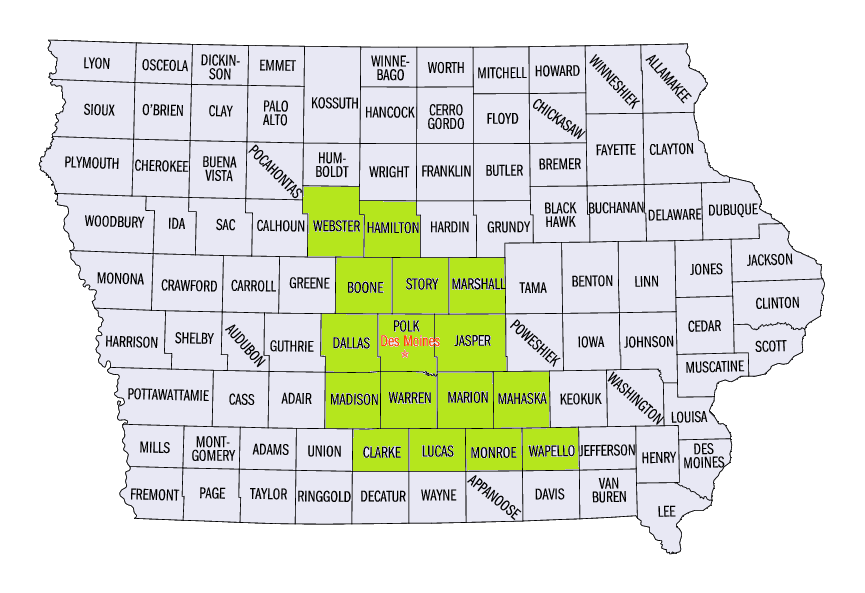
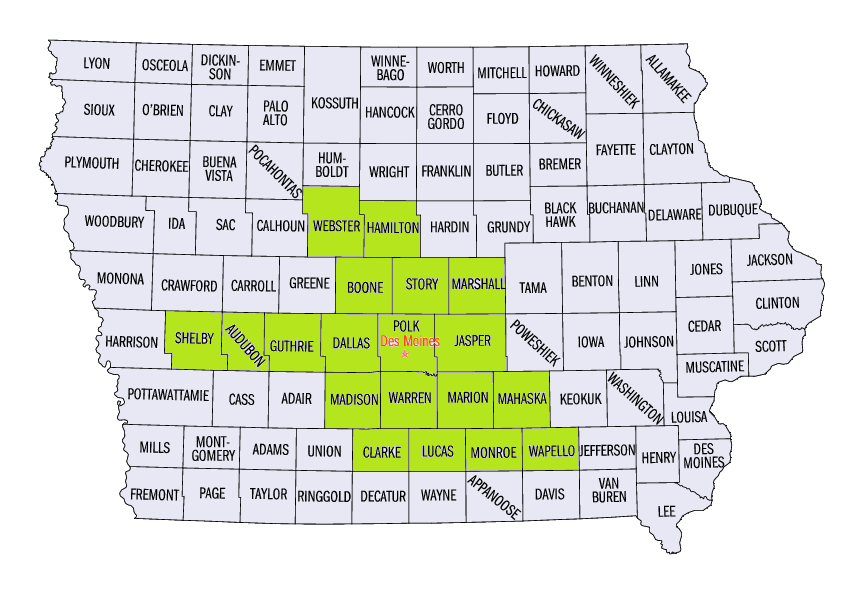
update

Changed region(s): [[0.1873, 0.516, 0.3746, 0.6374]]

diff --git a/imagemap.html b/imagemap.html
@@ -182,6 +182,80 @@ COORDS="550,371,550,385,551,397,551,399,551,408,551,410,551,413,551,416,551,418,
 HREF="/2013/08/mahaska-county.html" ALT="Mahaska County">
 </AREA>
 
+<AREA SHAPE="polygon"
+COORDS="223,312,222,321,222,326,222,327,222,332,222,333,222,340,222,347,222,354,225,354,
+226,354,228,354,228,370,223,370,216,370,214,370,209,370,208,370,207,370,206,370,
+200,369,197,369,195,369,192,369,191,369,187,369,186,369,183,369,179,369,177,369,
+176,369,174,369,172,369,172,360,172,356,172,355,172,353,170,353,169,353,167,353,
+166,353,165,353,165,352,165,351,165,348,165,347,165,343,165,342,165,341,165,339,
+165,335,165,332,165,327,165,326,166,324,166,323,166,316,166,310,167,310,174,310,
+178,311,180,311,181,311,182,311,185,311,187,311,189,311,192,311,194,311,197,311,
+198,311,208,311,215,311,223,312"
+HREF="http://bergman99.blogspot.com/2014/03/shelby-county.html" ALT="Shelby County">
+</AREA>
+
+<AREA SHAPE="polygon"
+COORDS="265,312,267,313,270,313,272,313,273,313,274,313,279,313,283,313,284,313,286,313,
+289,313,291,313,293,313,296,313,297,313,298,313,303,313,305,313,307,313,311,313,
+312,313,313,313,315,313,318,313,319,313,320,313,322,313,321,323,321,325,321,327,
+321,330,321,342,321,343,321,344,321,345,321,346,321,348,321,349,321,350,321,351,
+321,352,321,353,321,354,321,355,321,356,326,356,326,360,326,364,326,369,326,371,
+326,372,324,372,322,372,321,372,320,372,318,372,315,372,314,372,312,372,305,372,
+300,371,298,371,296,371,292,371,291,371,284,371,279,371,278,371,277,371,276,371,
+275,371,272,371,269,371,270,361,270,355,269,355,264,355,264,350,264,349,264,348,
+265,344,265,343,265,341,265,339,265,338,265,336,265,334,265,330,265,329,265,326,
+265,317,265,312"
+HREF="http://bergman99.blogspot.com/2014/03/guthrie-county.html" ALT="Guthrie County">
+</AREA>
+
+<AREA SHAPE="polygon"
+COORDS="223,312,237,312,242,312,245,312,246,312,249,312,251,312,253,312,256,312,258,312,
+260,312,261,312,262,312,263,312,265,312,265,317,265,326,265,329,265,330,265,334,
+265,336,265,338,265,339,265,341,265,343,265,344,264,348,264,349,264,350,264,355,
+269,355,270,355,270,361,269,371,255,371,253,371,251,371,249,371,246,371,245,371,
+242,371,230,370,229,370,228,370,228,354,226,354,225,354,222,354,222,347,222,340,
+222,333,222,332,222,327,222,326,222,321,223,312"
+HREF="http://bergman99.blogspot.com/2014/03/audubon-county.html" ALT="Audubon County">
+</AREA>
+
+<AREA SHAPE="polygon"
+COORDS="450,314,452,314,454,314,464,314,466,314,467,314,468,314,471,314,472,314,473,314,
+478,314,484,314,485,314,492,314,503,314,506,314,506,315,506,318,506,320,506,321,
+506,322,506,323,506,325,506,328,506,331,506,334,506,335,506,336,506,337,506,339,
+506,341,506,342,506,343,507,344,507,345,507,346,507,349,507,350,507,353,507,354,
+507,355,507,356,508,356,508,358,508,361,508,362,508,368,508,371,506,371,505,371,
+504,371,503,371,501,371,494,371,488,371,487,371,486,371,485,371,482,371,480,372,
+479,372,471,372,470,372,468,372,467,372,466,372,464,372,463,372,461,372,460,372,
+456,372,455,372,452,372,447,372,445,372,444,372,440,372,438,372,438,371,438,369,
+438,367,438,366,438,363,438,359,438,356,437,356,436,356,435,356,435,353,435,347,
+435,346,435,345,435,344,435,343,435,342,435,341,435,340,435,339,435,338,435,337,
+435,335,435,333,435,328,435,325,435,320,435,319,435,314,445,314,447,314,448,314,
+450,314"
+HREF="http://bergman99.blogspot.com/2013/11/jasper-county.html" ALT="Jasper County">
+</AREA>
+
+<AREA SHAPE="polygon"
+COORDS="477,257,478,257,489,257,491,257,493,257,496,257,503,257,505,257,506,257,506,264,
+506,270,506,271,506,276,506,285,506,286,506,289,506,290,506,291,506,292,506,294,
+506,298,506,299,506,304,506,309,506,311,506,314,503,314,492,314,485,314,484,314,
+478,314,473,314,472,314,471,314,468,314,467,314,466,314,464,314,454,314,452,314,
+450,314,449,313,450,308,450,307,450,305,450,304,450,303,450,299,449,297,449,290,
+449,286,449,271,449,269,449,268,449,267,449,260,449,259,449,258,449,257,454,257,
+460,257,461,257,463,257,473,257,476,257,477,257"
+HREF="http://bergman99.blogspot.com/2013/11/marshall-county.html" ALT="Marshall County">
+</AREA>
+
+
+</MAP>
+
+
+
+<br />
+<div class="separator" style="clear: both; text-align: center;">
+<img border="0" src="http://4.bp.blogspot.com/-bSk9VgYcQB4/UyY-PtOEioI/AAAAAAAAAn8/UTQ6DFqMXwc/s1600/img-ia.png" usemap="#CountyMap" />
+</div>
+<br />
+
 
 <!--
 <AREA SHAPE="polygon"
@@ -764,16 +838,6 @@ COORDS="280,256,282,256,289,256,290,256,292,256,293,256,294,256,301,256,302,256,
 HREF="/qfd/states/19/19073.html" ALT="Greene County">
 </AREA>
 
-<AREA SHAPE="polygon"
-COORDS="477,257,478,257,489,257,491,257,493,257,496,257,503,257,505,257,506,257,506,264,
-506,270,506,271,506,276,506,285,506,286,506,289,506,290,506,291,506,292,506,294,
-506,298,506,299,506,304,506,309,506,311,506,314,503,314,492,314,485,314,484,314,
-478,314,473,314,472,314,471,314,468,314,467,314,466,314,464,314,454,314,452,314,
-450,314,449,313,450,308,450,307,450,305,450,304,450,303,450,299,449,297,449,290,
-449,286,449,271,449,269,449,268,449,267,449,260,449,259,449,258,449,257,454,257,
-460,257,461,257,463,257,473,257,476,257,477,257"
-HREF="/qfd/states/19/19127.html" ALT="Marshall County">
-</AREA>
 
 <AREA SHAPE="polygon"
 COORDS="733,281,736,281,738,281,741,281,742,281,743,281,747,281,748,281,749,281,750,281,
@@ -906,21 +970,7 @@ COORDS="506,314,513,313,521,313,523,313,535,313,549,313,552,313,563,313,563,323,
 HREF="/qfd/states/19/19157.html" ALT="Poweshiek County">
 </AREA>
 
-<AREA SHAPE="polygon"
-COORDS="450,314,452,314,454,314,464,314,466,314,467,314,468,314,471,314,472,314,473,314,
-478,314,484,314,485,314,492,314,503,314,506,314,506,315,506,318,506,320,506,321,
-506,322,506,323,506,325,506,328,506,331,506,334,506,335,506,336,506,337,506,339,
-506,341,506,342,506,343,507,344,507,345,507,346,507,349,507,350,507,353,507,354,
-507,355,507,356,508,356,508,358,508,361,508,362,508,368,508,371,506,371,505,371,
-504,371,503,371,501,371,494,371,488,371,487,371,486,371,485,371,482,371,480,372,
-479,372,471,372,470,372,468,372,467,372,466,372,464,372,463,372,461,372,460,372,
-456,372,455,372,452,372,447,372,445,372,444,372,440,372,438,372,438,371,438,369,
-438,367,438,366,438,363,438,359,438,356,437,356,436,356,435,356,435,353,435,347,
-435,346,435,345,435,344,435,343,435,342,435,341,435,340,435,339,435,338,435,337,
-435,335,435,333,435,328,435,325,435,320,435,319,435,314,445,314,447,314,448,314,
-450,314"
-HREF="/qfd/states/19/19099.html" ALT="Jasper County">
-</AREA>
+
 <AREA SHAPE="polygon"
 COORDS="735,324,737,324,738,324,739,324,740,324,743,324,746,324,747,324,748,324,749,324,
 750,325,751,325,752,326,752,327,753,328,754,329,755,329,755,328,756,328,756,329,
